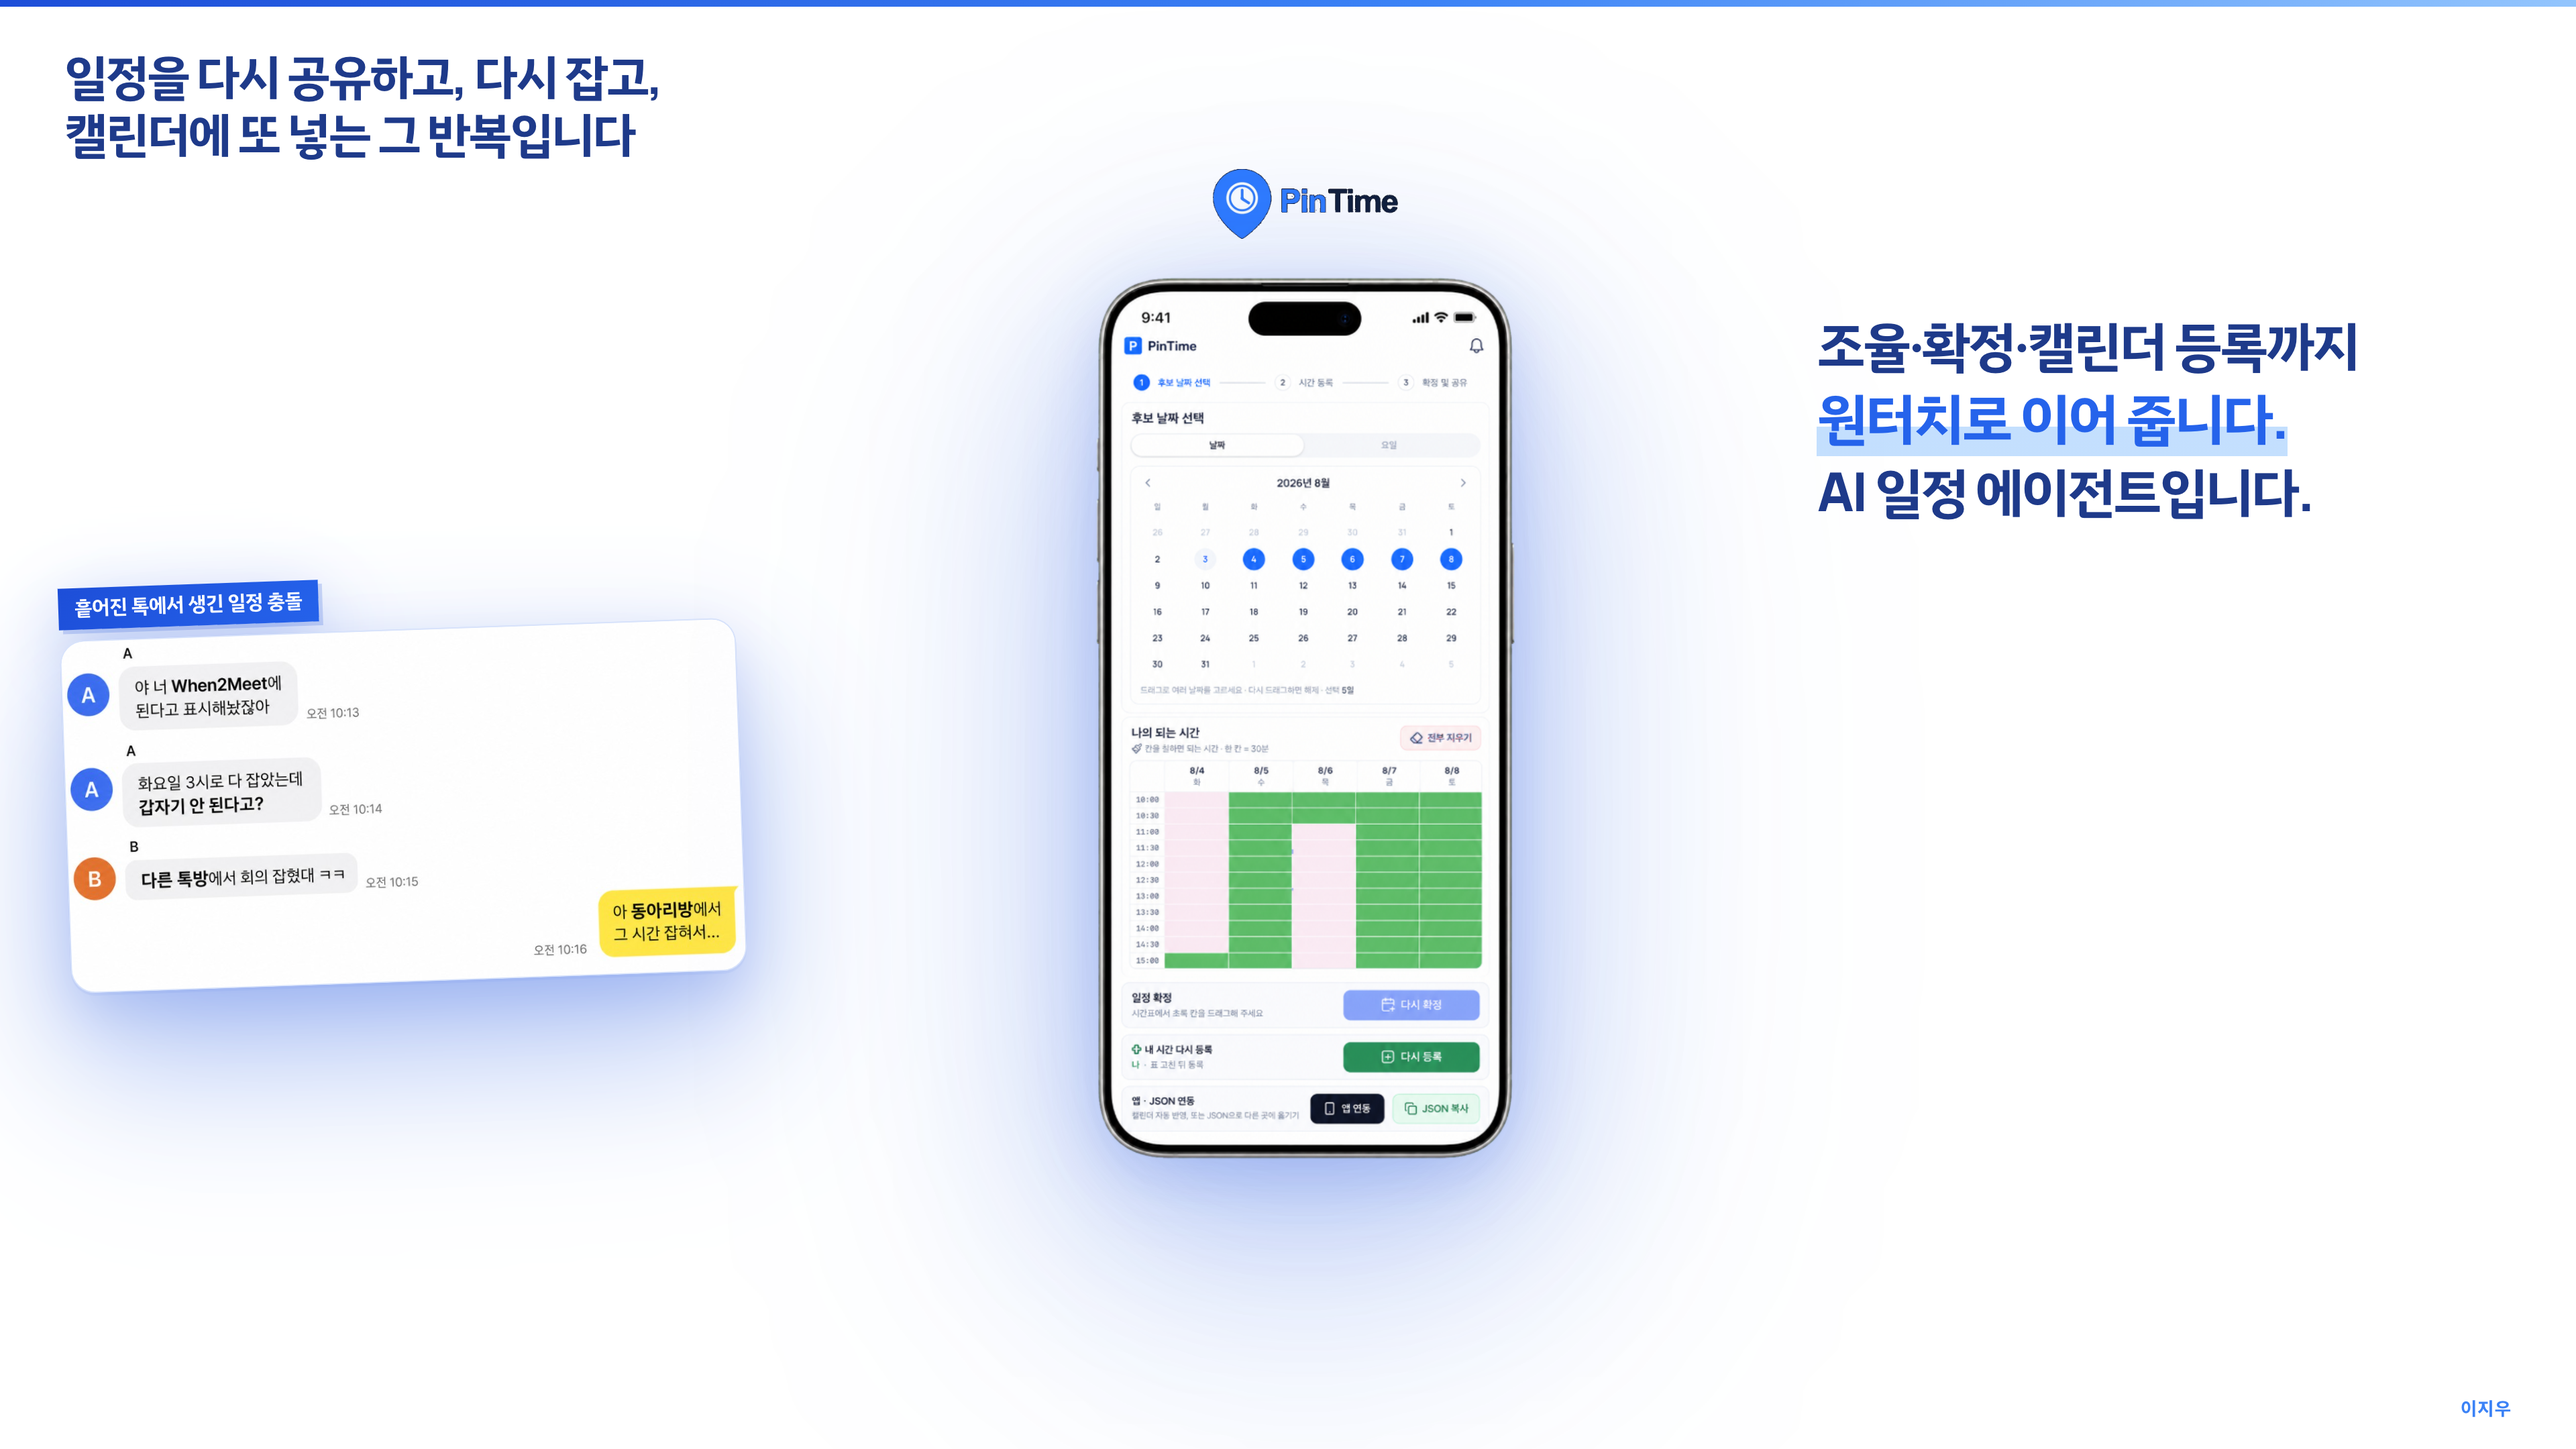
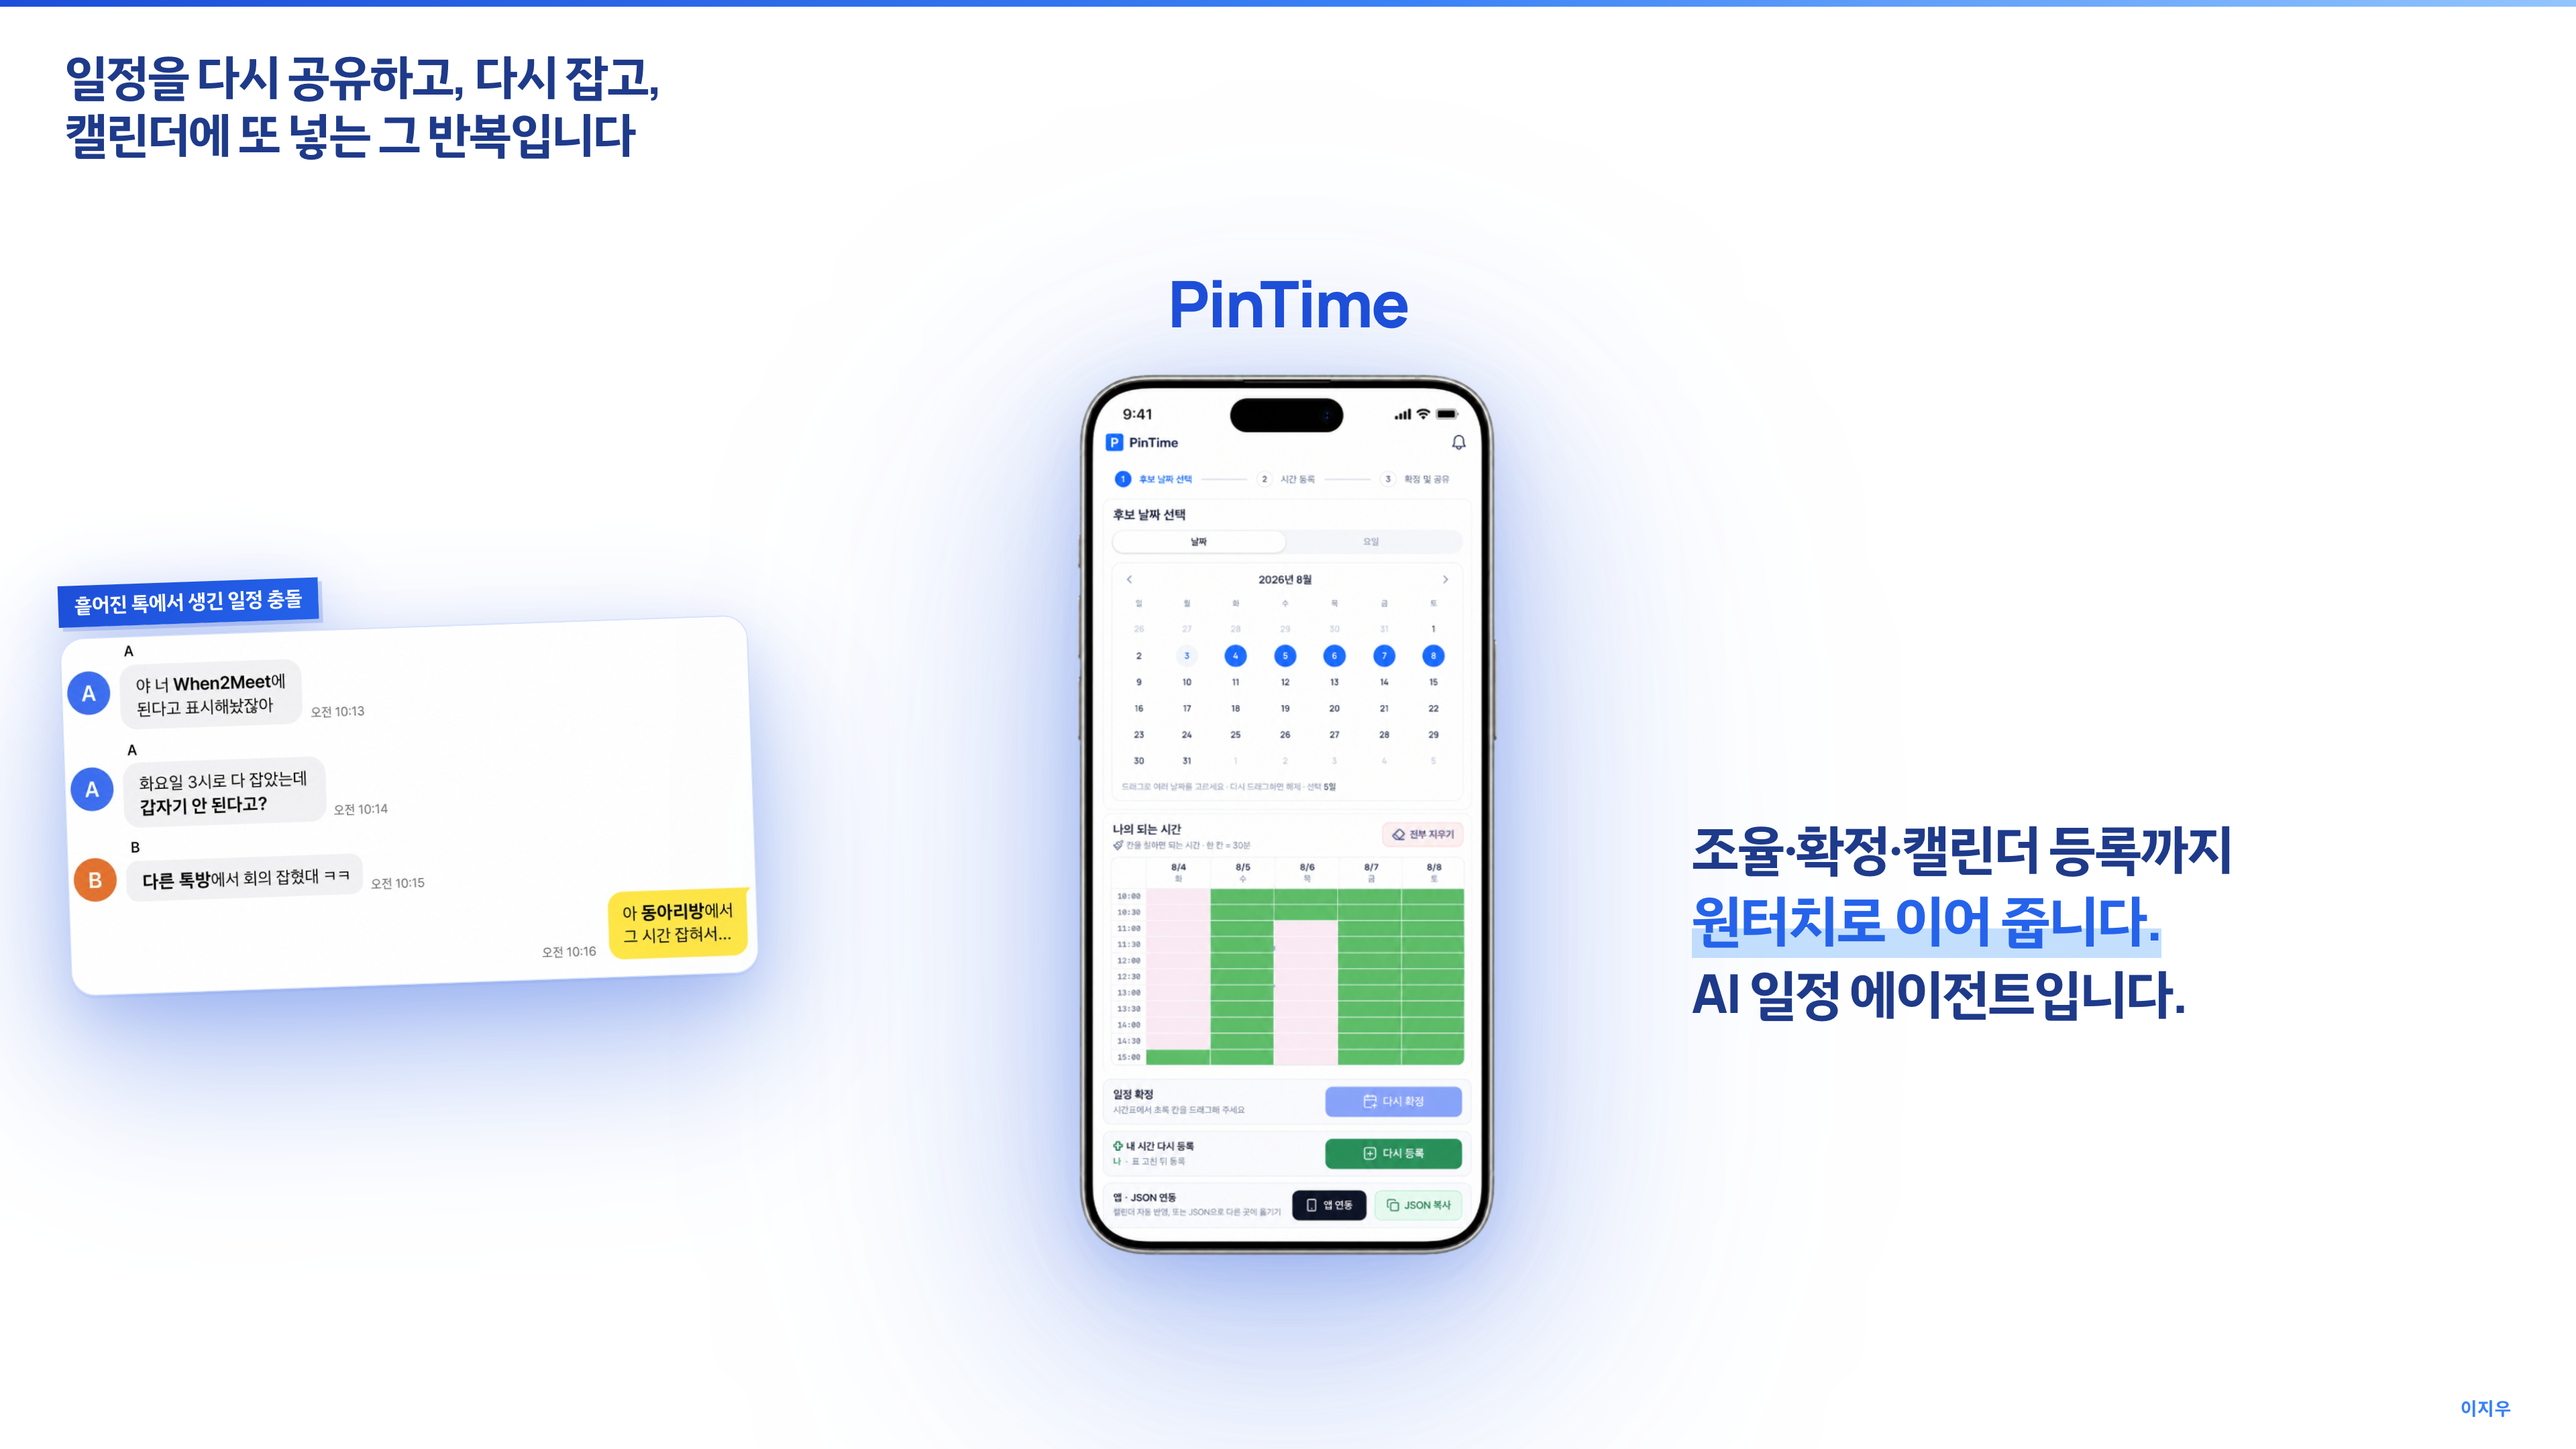
Center cover phone and restore text PinTime wordmark.

diff --git a/public/pitch.html b/public/pitch.html
@@ -1202,9 +1202,9 @@
 
       .cover-stage {
         display: grid;
-        grid-template-columns: 0.95fr 1.55fr 0.9fr;
-        align-items: start;
-        gap: 10px;
+        grid-template-columns: 1fr 1.15fr 1fr;
+        align-items: center;
+        gap: 12px;
         min-height: 0;
         margin-top: 4px;
         overflow: visible;
@@ -1260,20 +1260,25 @@
         display: flex;
         flex-direction: column;
         align-items: center;
-        justify-content: flex-start;
+        justify-content: center;
         min-height: 0;
         gap: 0;
-        align-self: stretch;
+        align-self: center;
+        justify-self: center;
         overflow: visible;
+        width: 100%;
       }
 
       .cover-wordmark {
-        display: block;
-        height: 52px;
-        width: auto;
+        font-family: Manrope, sans-serif;
+        font-weight: 800;
+        font-size: 48px;
+        letter-spacing: -0.03em;
+        color: #1d4ed8;
+        line-height: 1;
         margin-bottom: 6px;
         flex-shrink: 0;
-        background: transparent;
+        text-align: center;
       }
 
       .cover-phone {
@@ -1282,9 +1287,10 @@
           drop-shadow(0 14px 24px rgba(29, 78, 216, 0.2))
           drop-shadow(0 36px 70px rgba(29, 78, 216, 0.26))
           drop-shadow(0 64px 120px rgba(37, 99, 235, 0.22));
-        flex: 1 1 auto;
+        flex: 0 1 auto;
         min-height: 0;
         overflow: visible;
+        margin: 0 auto;
       }
 
       .cover-phone img {
@@ -2281,11 +2287,7 @@
             </div>
 
             <div class="cover-phone-col">
-              <img
-                class="cover-wordmark"
-                src="/pitch-shots/pintime-logo.png"
-                alt="PinTime"
-              />
+              <div class="cover-wordmark">PinTime</div>
               <div class="cover-phone">
                 <img
                   src="/pitch-shots/cover-phone.png"
